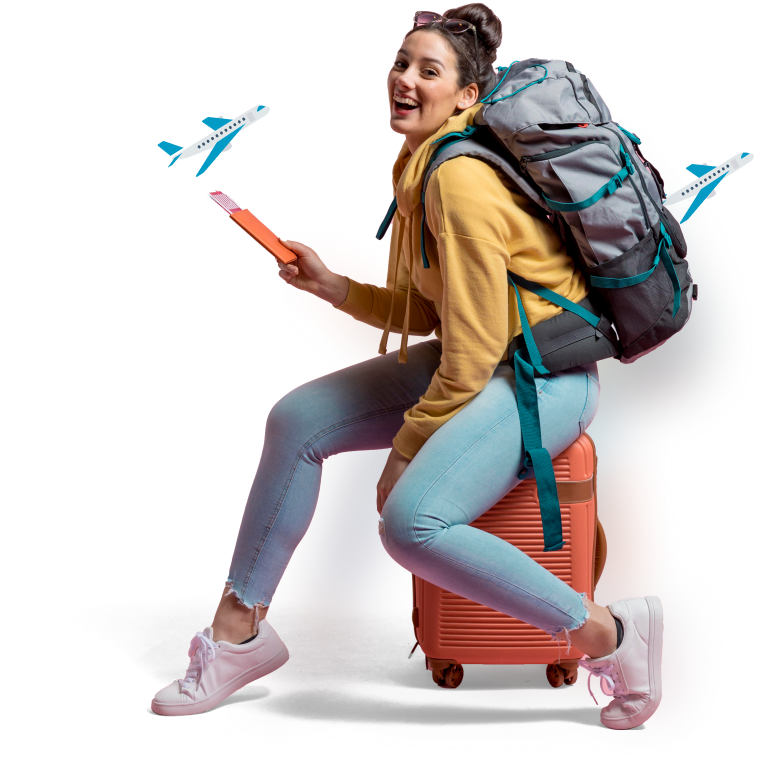
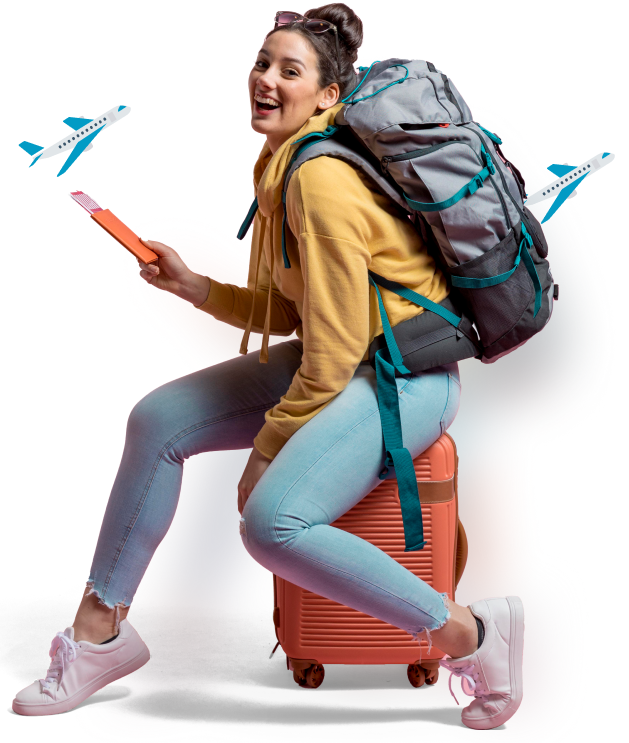
write pc version hero section

diff --git a/components/Hero.tsx b/components/Hero.tsx
@@ -3,14 +3,14 @@ import { PlayButtonIcon } from '@/assets/icons';
 
 export const Hero = ({}) => {
   return (
-    <section className='custom-lg-height flex items-center'>
-      <div className='lg:w-[630px]'>
+    <section className='custom-lg-height flex w-full items-center justify-between'>
+      <div className='lg:w-[650px]'>
         <h2 className='font-bold text-brand-red lg:mb-[24px] lg:text-xl'>
           Best Destinations around the world
         </h2>
         <h1 className='relative font-bold leading-none text-dark-blue lg:mb-[30px] lg:text-[84px]'>
           Travel,
-          <span className="z-10 after:absolute after:right-0 after:top-[75px] after:-z-10 after:block after:h-[10px] after:w-[390px] after:bg-[url('../assets/hero-title-decore.svg')] after:content-['']">
+          <span className="z-10 after:absolute after:right-40 after:top-[75px] after:-z-10 after:block after:h-[10px] after:w-[270px] after:bg-[url('../assets/hero-title-decore.svg')] after:content-['']">
             enjoy
           </span>
           and live a new and full life
@@ -40,7 +40,7 @@ export const Hero = ({}) => {
         </div>
       </div>
 
-      <div className='bg-girl'>asd</div>
+      <div className="h-[80%] w-[40%] bg-[url('../assets/girl.png')] bg-contain bg-no-repeat"></div>
     </section>
   );
 };
